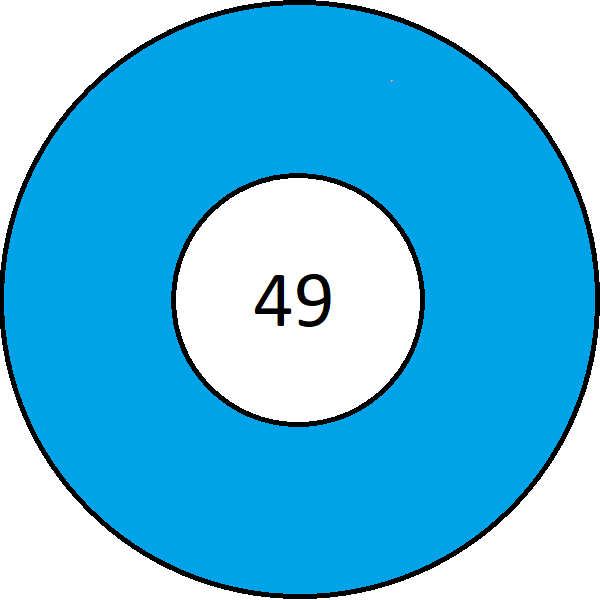
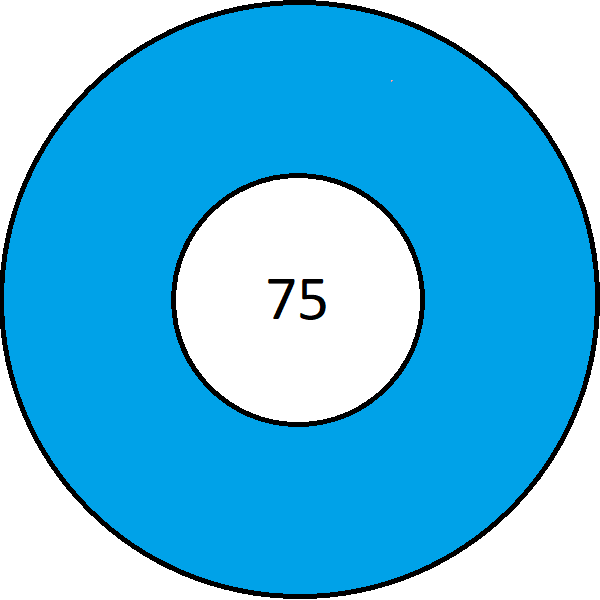
golyók megszerkesztése, és átírása html fájlban

Changed region(s): [[0.42, 0.45, 0.57, 0.57]]

diff --git a/Leghasonlobbszamsorok.html b/Leghasonlobbszamsorok.html
@@ -14,11 +14,11 @@
                                 <div class = "hascim" > 2011.03.05 </div>
                                 <div class="leghasonlobbszamsorok">
                                     <div class ="leghasonlobbkep">
-                                        <img src="leghasonlobbszamsorok/golyo7.png" alt="7-es golyó" width="200" height="200"> 
-                                        <img src="leghasonlobbszamsorok/golyo9.png" alt="9-es golyó" width="200" height="200"> 
-                                        <img src="leghasonlobbszamsorok/golyo19.png" alt="19-es golyó" width="200" height="200">
-                                        <img src="leghasonlobbszamsorok/golyo49.png" alt="49-es golyó" width="200" height="200">
-                                        <img src="leghasonlobbszamsorok/golyo89.png" alt="89-es golyó" width="200" height="200">
+                                        <img src="leghasonlobbszamsorok/golyo7.png" alt="1-es golyó" width="200" height="200"> 
+                                        <img src="leghasonlobbszamsorok/golyo9.png" alt="56-os golyó" width="200" height="200"> 
+                                        <img src="leghasonlobbszamsorok/golyo19.png" alt="69-es golyó" width="200" height="200">
+                                        <img src="leghasonlobbszamsorok/golyo49.png" alt="75-ös golyó" width="200" height="200">
+                                        <img src="leghasonlobbszamsorok/golyo89.png" alt="76-os golyó" width="200" height="200">
                                     </div> 
                                 </div>
                                 <div class = "hascim2"> 1961.05.21 </div>
